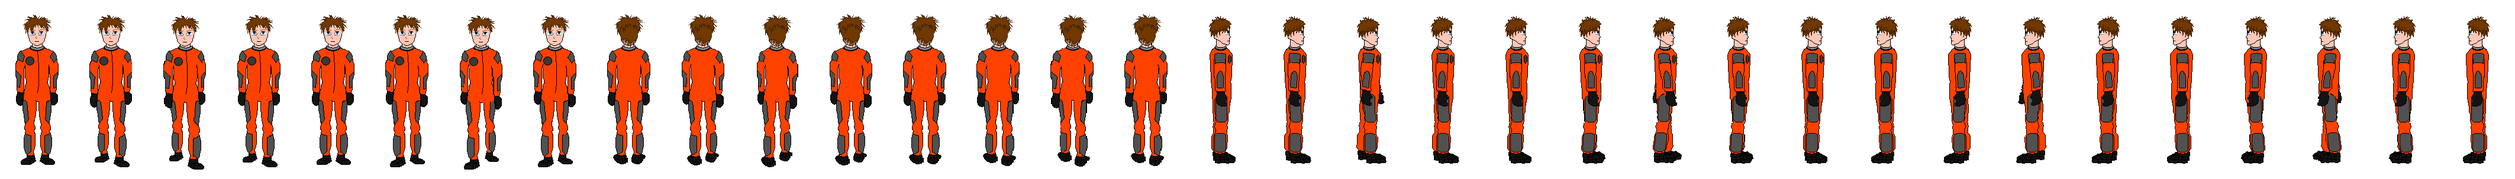
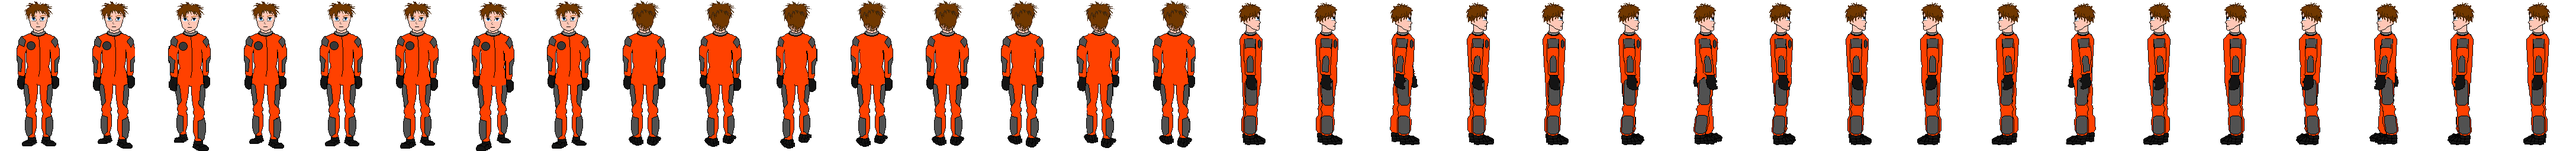
- Corrected dimensions of character sprite - Modified character to be sprite so it just always faces the camera - Trying to have camera attached to character... kinda screws up it's   ability to calculate. Going to try moving the camera manually to track   the player character

diff --git a/public/scripts/scenograph/director/character_test.js b/public/scripts/scenograph/director/character_test.js
@@ -9,7 +9,8 @@ L.scenograph.director.character_test = function() {
 		L.scenograph.director.camera_state.zoom
 	);	
 	var character = L.scenograph.director.make_character();
-	character.position.y = -25;
+	character.position.y = 150;
+	character.add(L.scenograph.director.camera);
 	this.scene.add(character);
 	this.animation_queue.push(character.animation)
 
@@ -48,13 +49,13 @@ L.scenograph.director.character_test = function() {
 L.scenograph.director.make_character = function() {
 	var texture = new THREE.ImageUtils.loadTexture( '/assets/exordium-male.png' );
 	
-	var material = new THREE.MeshBasicMaterial( { map: texture, transparent: true, side:THREE.DoubleSide, alphaTest: 0.5 } );
-	var geometry = new THREE.PlaneGeometry(12.5, 30.4);
+	var material = new THREE.SpriteMaterial( { map: texture} );
+	
 
-	var new_character = new THREE.Mesh(geometry, material);
+	var new_character = new THREE.Sprite(material);
 	new_character.world_rotation = 0;
 	new_character.animation = new L.scenograph.director.make_animation( new_character, texture, 34, 1, 34, 3400 ); // texture, #horiz, #vert, #total, duration.
-	new_character.scale.set(10,10,10);
+	new_character.scale.set(12.8,25.6,10);
 
 	return new_character;
 }
@@ -137,13 +138,17 @@ L.scenograph.director.make_animation = function( character, texture, tilesHoriz,
 			this.last_face = this.face;
 		}
 
-		character.lookAt(L.scenograph.director.camera.position);
+
+
 		var axis = new THREE.Vector3( 0, -1, 0 );
 		var angle = character.world_rotation;
 		var matrix = new THREE.Matrix4().makeRotationAxis( axis, angle );
 		var vector = character.position.clone();
-		
-		var diff = new THREE.Vector3().subVectors(character.position, L.scenograph.director.camera.position).normalize();
+
+		var camera_vector = new THREE.Vector3();
+		camera_vector.setFromMatrixPosition( L.scenograph.director.camera.matrixWorld );
+	
+		var diff = new THREE.Vector3().subVectors(character.position, camera_vector).normalize();
 		diff.applyMatrix4(matrix);
 
 		if (diff.x < 0.6  && diff.x > -0.6 && diff.z <= 0.0) {
